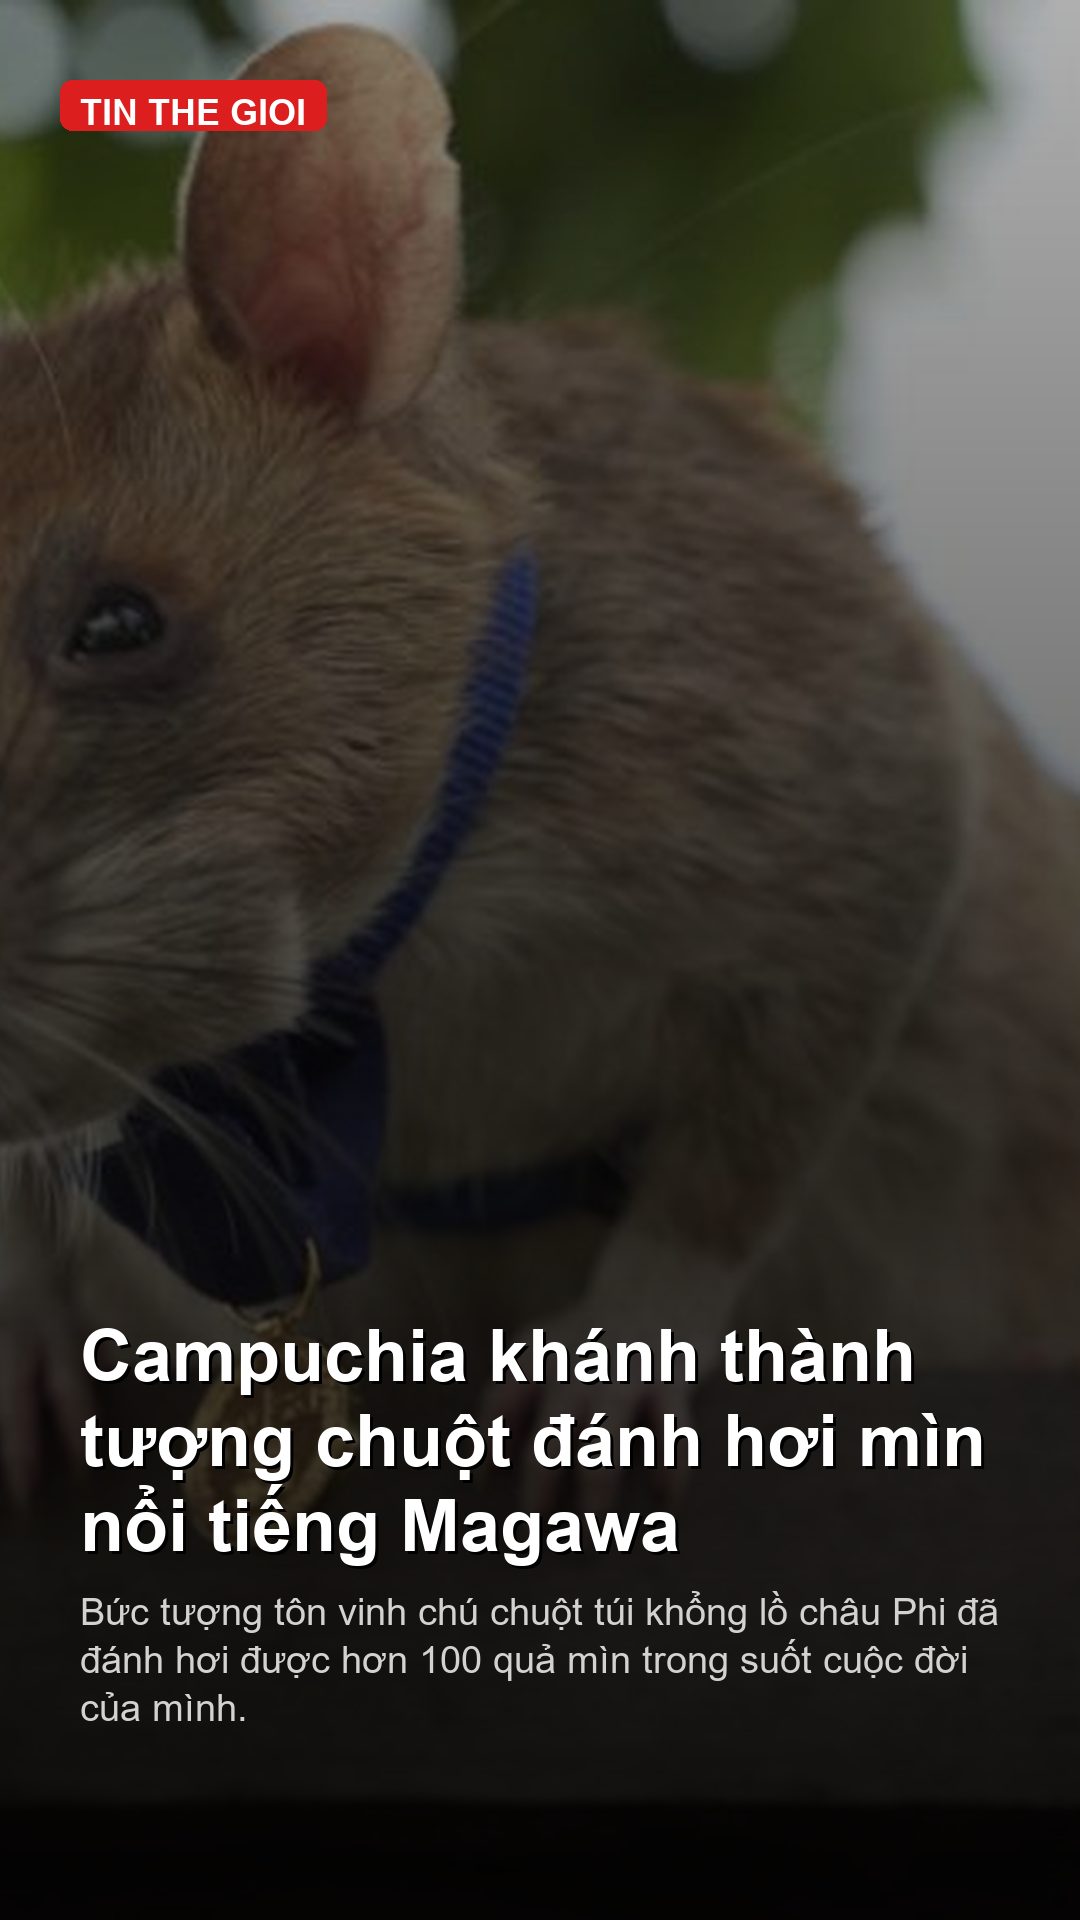
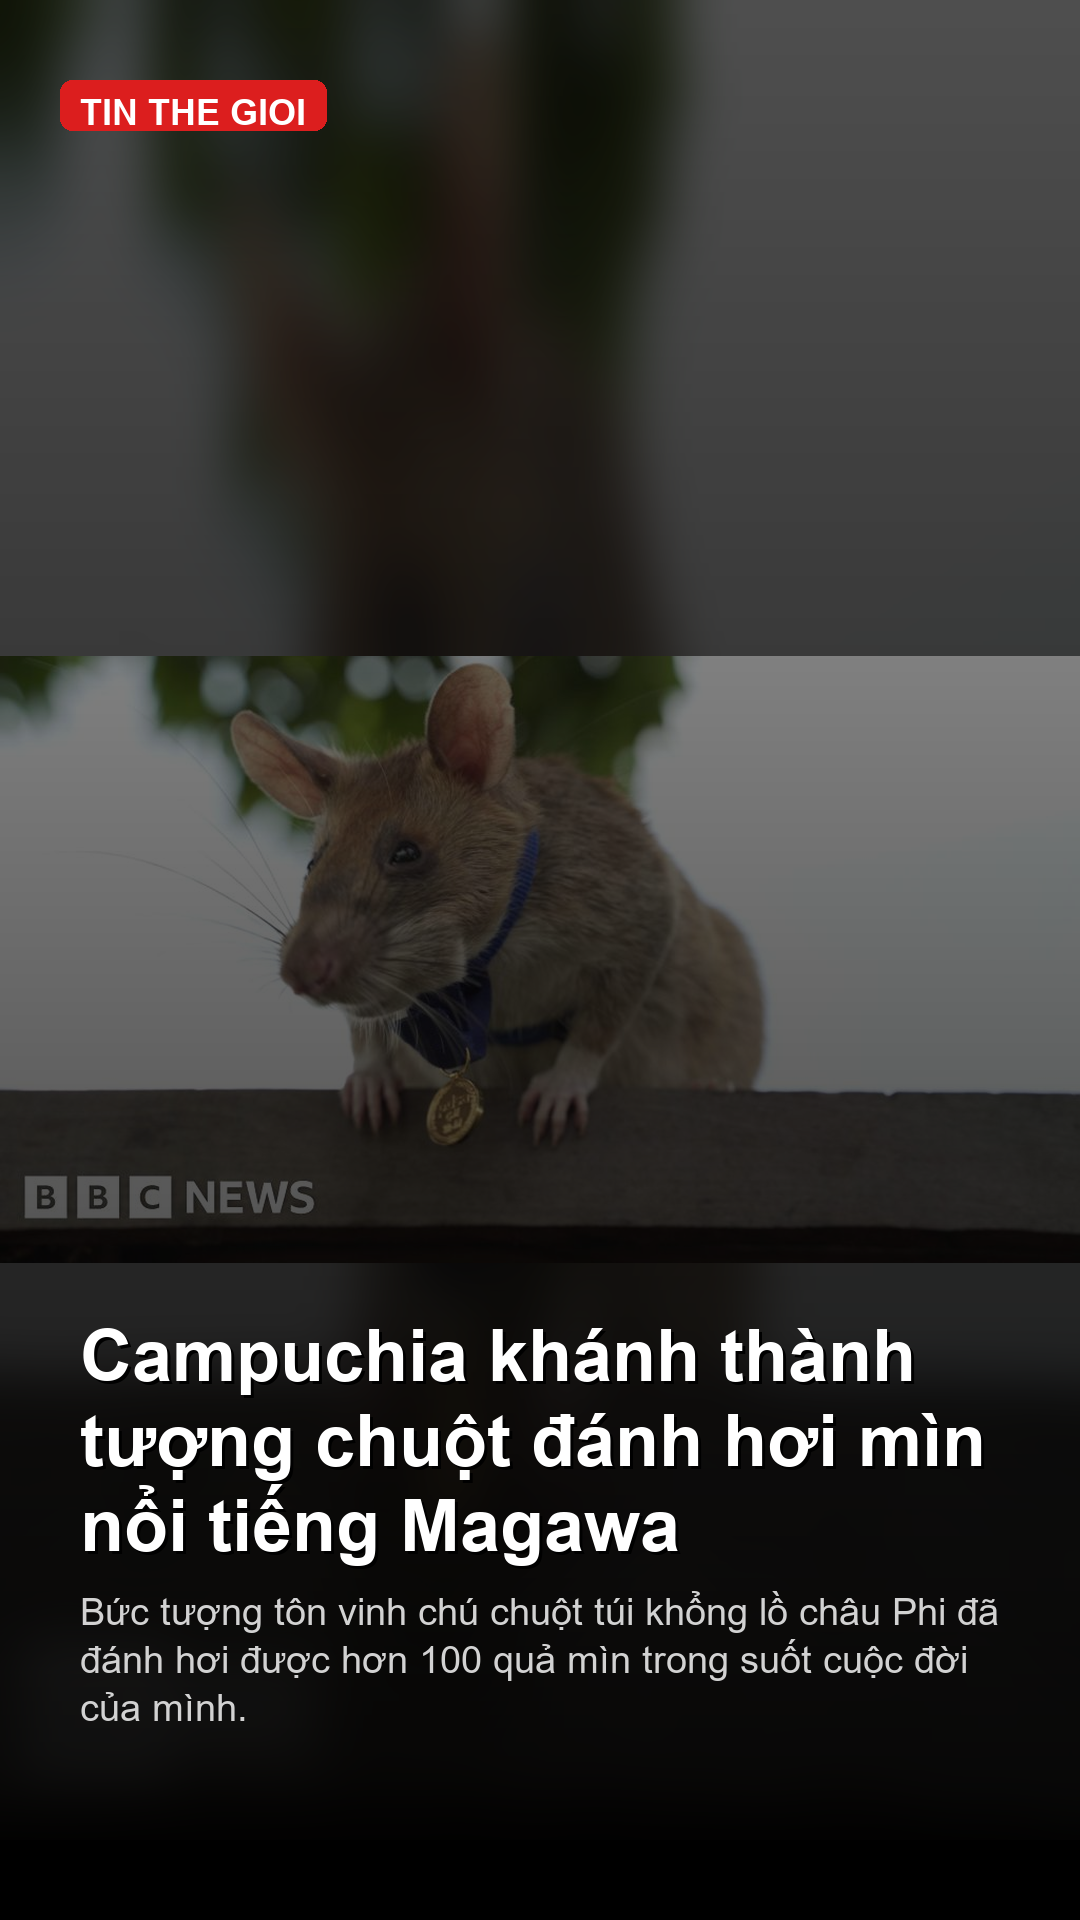
add hashtags message

diff --git a/main.py b/main.py
@@ -121,6 +121,22 @@ def collect_all_news() -> list[dict]:
     return all_news
 
 
+# ── Фильтр новостей без фото ─────────────────────────────────────────────────
+
+def filter_news_with_images(news_list: list[dict]) -> list[dict]:
+    """Оставляет только новости с непустым image_url (длина > 10 символов)."""
+    filtered = []
+    skipped  = 0
+    for news in news_list:
+        if news.get("image_url") and len(news["image_url"]) > 10:
+            filtered.append(news)
+        else:
+            skipped += 1
+            print(f"  [SKIP] Нет фото: {news.get('title', '')[:50]}")
+    print(f"[Фильтр фото] С фото: {len(filtered)} | Без фото (пропущено): {skipped}")
+    return filtered
+
+
 # ── Дедупликация ──────────────────────────────────────────────────────────────
 
 def _title_key(title: str) -> str:
@@ -297,43 +313,52 @@ def main() -> None:
         print("\n[ВНИМАНИЕ] Новости не найдены. Проверьте подключение к интернету.")
         sys.exit(1)
 
-    # 3. Фильтрация по кэшу
+    # 3. Фильтр — оставляем только новости с фото
+    print("\n" + "=" * 60)
+    print("  LOC ANH / ФИЛЬТР НОВОСТЕЙ БЕЗ ФОТО")
+    print("=" * 60)
+    all_news = filter_news_with_images(all_news)
+    if not all_news:
+        print("\n[ВНИМАНИЕ] Нет новостей с фото.")
+        sys.exit(1)
+
+    # 5. Фильтрация по кэшу
     print("\n" + "=" * 60)
     print("  LOC CACHE / ФИЛЬТРАЦИЯ КЭША")
     print("=" * 60)
     all_news = filter_new_news(all_news)
 
     if len(all_news) == 0:
-        print("\n📭 Khong co tin moi! / Нет новых новостей!")
+        print("\n[INFO] Khong co tin moi! / Нет новых новостей!")
         sys.exit(0)
 
-    # 4. Дедупликация
+    # 6. Дедупликация
     print("\n" + "=" * 60)
     print("  LOC TRUNG LAP / ДЕДУПЛИКАЦИЯ")
     print("=" * 60)
     unique_news = deduplicate(all_news)
 
-    # 5. Перевод на вьетнамский (VnExpress / Tuoi Tre / Dan Tri — пропускаются)
+    # 7. Перевод на вьетнамский (VnExpress / Tuoi Tre / Dan Tri — пропускаются)
     unique_news = translate_all_news(unique_news)
 
-    # 6. Генерация изображений (два стиля: world / vietnam)
+    # 8. Генерация изображений (два стиля: world / vietnam)
     image_paths = generate_images(unique_news)
 
-    # 7. Генерация баннеров
+    # 9. Генерация баннеров
     print("\n" + "=" * 60)
     print("  TAO BANNER / СОЗДАНИЕ БАННЕРОВ")
     print("=" * 60)
     create_intro_banner(date_vi, len(unique_news), INTRO_PATH)
     create_subscribe_banner(BANNER_PATH)
 
-    # 8. Отправка в Telegram: удалить старые → интро → новости → подписка
+    # 10. Отправка в Telegram: удалить старые → интро → новости → подписка
     print("\n" + "=" * 60)
     print("  GUI TELEGRAM / ОТПРАВКА В TELEGRAM")
     print("=" * 60)
     intro_caption = (
-        f"🗞 Chao buoi sang! Hom nay {date_vi}\n\n"
-        f"⚡ {len(unique_news)} tin tuc chinh trong ngay\n\n"
-        f"📲 @todayrealnews"
+        f"Chao buoi sang! Hom nay {date_vi}\n\n"
+        f"{len(unique_news)} tin tuc chinh trong ngay\n\n"
+        f"@todayrealnews"
     )
     send_all(
         unique_news,
@@ -343,7 +368,7 @@ def main() -> None:
         intro_caption=intro_caption,
     )
 
-    # 9. Обновление кэша
+    # 11. Обновление кэша
     print("\n" + "=" * 60)
     print("  CAP NHAT CACHE / ОБНОВЛЕНИЕ КЭША")
     print("=" * 60)
@@ -351,7 +376,7 @@ def main() -> None:
         add_to_cache(news)
     print(f"[Кэш] Добавлено {len(unique_news)} новостей в output/published_news.json")
 
-    # 10. Итог
+    # 12. Итог
     elapsed = time.time() - start
     print(f"\n  Thoi gian thuc hien: {elapsed:.1f} giay")
     print_summary(len(all_news), len(unique_news), len(image_paths))

diff --git a/generator/image_gen.py b/generator/image_gen.py
@@ -280,12 +280,36 @@ def prepare_background(
     offset_y = (target_h - new_h) // 2
     bg.paste(img_resized, (offset_x, offset_y))
 
-    # Скрываем логотип BBC и другие ватермарки — закрашиваем нижние 80px
-    draw_bg = ImageDraw.Draw(bg)
-    draw_bg.rectangle(
-        [(0, target_h - 80), (target_w, target_h)],
-        fill=(0, 0, 0),
-    )
+    # Скрываем логотип BBC и другие ватермарки
+    bg = _remove_logo_area(bg, target_w, target_h)
+
+    return bg
+
+
+def _remove_logo_area(bg: Image.Image, target_w: int, target_h: int) -> Image.Image:
+    """
+    Скрывает логотип/ватермарку в нижней части картинки.
+
+    Алгоритм:
+      1. Берём полоску чистого контента чуть выше зоны логотипа.
+      2. Растягиваем её на зону логотипа (нижние 12% высоты).
+      3. Дополнительно размываем зону логотипа для естественности.
+    """
+    logo_h  = int(target_h * 0.12)          # высота зоны логотипа
+    clean_y = target_h - logo_h - 20        # строка чуть выше логотипа
+
+    # Вырезаем полоску чистого контента (40px) выше логотипа
+    strip_top = max(0, clean_y - 40)
+    clean_strip = bg.crop((0, strip_top, target_w, clean_y))
+
+    # Растягиваем полоску на всю зону логотипа
+    clean_strip = clean_strip.resize((target_w, logo_h + 20), Image.LANCZOS)
+    bg.paste(clean_strip, (0, target_h - logo_h - 20))
+
+    # Дополнительно размываем зону для маскировки артефактов
+    logo_zone = bg.crop((0, target_h - logo_h, target_w, target_h))
+    logo_zone = logo_zone.filter(ImageFilter.GaussianBlur(radius=15))
+    bg.paste(logo_zone, (0, target_h - logo_h))
 
     return bg
 

diff --git a/telegram_sender.py b/telegram_sender.py
@@ -235,9 +235,25 @@ async def _run_full_pipeline(
     else:
         print(f"[Telegram] ⚠ Баннер подписки не найден: {subscribe_path}")
 
-    # ── Шаг 5: Сохранить новые ID ─────────────────────────────────────────────
+    # ── Шаг 5: Хэштеги ───────────────────────────────────────────────────────
+    print("\n[Telegram] ── Шаг 5: Хэштеги ──")
+    hashtag_text = (
+        "#новости #news #worldnews #мировыеновости\n"
+        "#breakingnews #todayrealnews #политика\n"
+        "#главноесегодня #trending #срочно\n"
+        "#tintuc #tintucmoinhat #tintuchomay\n"
+        "#vietnamnews #todayrealnews"
+    )
+    try:
+        msg = await bot.send_message(chat_id=chat_id, text=hashtag_text)
+        new_ids.append(msg.message_id)
+        print("[Telegram] [OK] Хэштеги отправлены")
+    except Exception as e:
+        print(f"[Telegram] Ошибка хэштегов: {e}")
+
+    # ── Шаг 6: Сохранить новые ID ─────────────────────────────────────────────
     save_message_ids(new_ids)
-    print(f"\n[Telegram] ✅ Сохранено {len(new_ids)} ID сообщений → {MESSAGE_IDS_FILE}")
+    print(f"\n[Telegram] Сохранено {len(new_ids)} ID сообщений → {MESSAGE_IDS_FILE}")
 
     return sent_news
 
